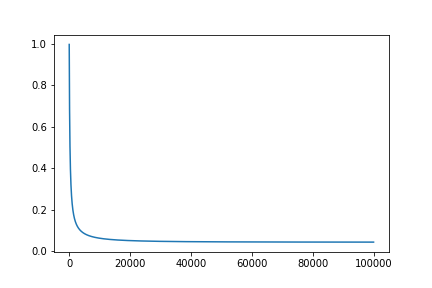
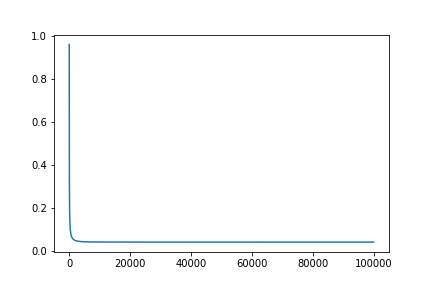
update result

diff --git a/HW5/P6.py b/HW5/P6.py
@@ -12,7 +12,7 @@ def f(a, b, c, d):
     return 2*a*pow(c,4) - a*b + math.exp(math.sin(d)+d) + 2*pow(b,2)*pow(d,2) - 3*pow(c,3)*d
 #%%
 
-alpha = 0.001
+alpha = 0.01
 a = 0
 b = 0
 c = 0
